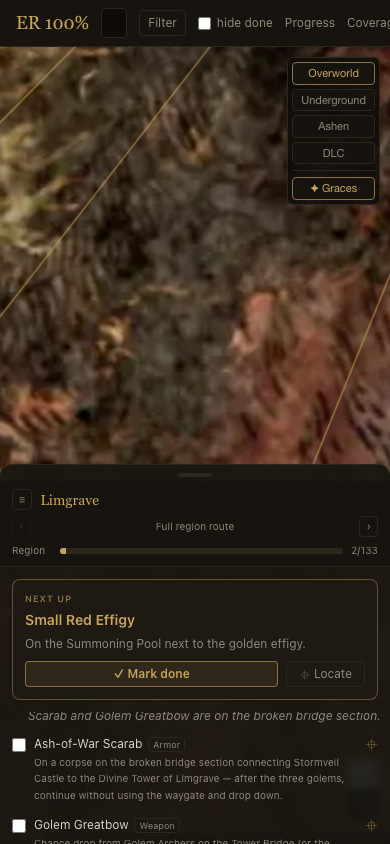
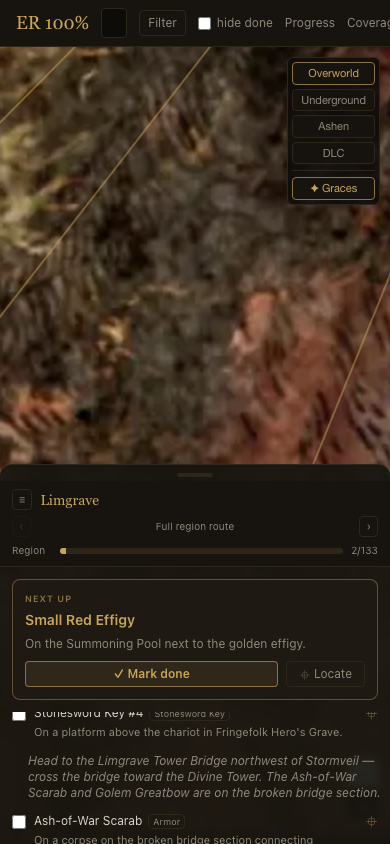
fix: auto-pan to next objective, consistent pin glyphs, panel readability
- MapView: fly to next-up pin (zoom 5, duration 0.6s) on region/leg mount;
  once-guard keyed on activeLegId prevents re-fly when checking items in the
  same leg. Layer switch runs before flyTo if next-up is on a different layer.
  Exposes map center via data-map-center attribute on moveend for acceptance tests.
- markers.ts: replace all color-emoji glyphs (shield, fire, ghost, bow, armor,
  swirl, key, seedling, droplet, brain, bubble, wrench, bell, book, map, tool,
  tree, sparkle) with monochrome text/symbol equivalents that render inside the
  colored ring without OS emoji substitution. CSS forces font-variant-emoji:text
  plus symbol font stack on .er-pin.
- RoutePanel: secondary note/missable text 10px to 11px with leading-relaxed
  on both paragraph types for consistent readability across all step rows.
- verify-map.mjs: adds acceptance check 9 (25/25 green) — navigates to
  weeping-01, waits for flyTo to settle, asserts map center within 15 CRS units
  of next-up pin coords (-205.789, 116.574); actual delta-lat=0.00, delta-lng=0.00.

Changed region(s): [[0.0308, 0.8318, 0.9538, 1.0], [0.0308, 0.955, 0.0615, 0.9858]]

diff --git a/src/components/MapView.tsx b/src/components/MapView.tsx
@@ -88,6 +88,10 @@ export default function MapView({ initialLayer, activeLegId, nextUpId }: MapView
   })
   routeStateRef.current = { activeLegId: activeLegId ?? null, nextUpId: nextUpId ?? null }
 
+  // Auto-pan guard: resets when activeLegId changes so we fly once per
+  // region/leg mount but not on every item check within the same leg.
+  const autoPanFiredRef = useRef<string | null>(null)
+
   // ── Imperative re-draw helpers (use refs only) ───────────────────────────
 
   function redrawOverlays() {
@@ -231,6 +235,15 @@ export default function MapView({ initialLayer, activeLegId, nextUpId }: MapView
       })
     })
 
+    // Expose map center via a DOM data attribute for acceptance tests
+    // (avoids leaking the Leaflet instance into window; readable with page.evaluate).
+    const updateCenterAttr = () => {
+      const c = map.getCenter()
+      containerRef.current?.setAttribute('data-map-center', `${c.lat},${c.lng}`)
+    }
+    map.on('moveend', updateCenterAttr)
+    updateCenterAttr()
+
     // Keep tiles crisp when the layout settles after mount.
     const invalidate = () => map.invalidateSize()
     const t = setTimeout(invalidate, 100)
@@ -239,6 +252,7 @@ export default function MapView({ initialLayer, activeLegId, nextUpId }: MapView
     return () => {
       clearTimeout(t)
       window.removeEventListener('resize', invalidate)
+      map.off('moveend', updateCenterAttr)
       unsubscribe()
       map.remove()
       mapRef.current = null
@@ -257,6 +271,25 @@ export default function MapView({ initialLayer, activeLegId, nextUpId }: MapView
   // Route props changed (leg navigation / next-up advanced): redraw overlays.
   useEffect(() => {
     if (mapRef.current) redrawOverlays()
+    // eslint-disable-next-line react-hooks/exhaustive-deps
+  }, [activeLegId, nextUpId])
+
+  // Auto-pan to next-up pin on region/leg mount.
+  // The guard key encodes the active leg so changing legs always triggers a
+  // fresh pan, while checking items within the same leg does NOT re-fly
+  // (handleCheck→focus() already covers that advance).
+  useEffect(() => {
+    const legKey = activeLegId ?? '__region__'
+    if (autoPanFiredRef.current === legKey) return // already panned for this leg
+    if (!mapRef.current) return
+    if (!nextUpId) return
+    const item = itemsById.get(nextUpId)
+    if (!item?.map) return
+    autoPanFiredRef.current = legKey
+    if (item.map.code !== layerRef.current) {
+      switchLayer(item.map.code)
+    }
+    mapRef.current.flyTo([item.map.lat, item.map.lng], 5, { duration: 0.6 })
     // eslint-disable-next-line react-hooks/exhaustive-deps
   }, [activeLegId, nextUpId])
 

diff --git a/src/lib/markers.ts b/src/lib/markers.ts
@@ -6,31 +6,31 @@ import type { Category } from './types'
 // the marker border ring. Checked markers are desaturated via CSS filter.
 
 export const CATEGORY_GLYPH: Record<Category, string> = {
-  weapon: '⚔',
-  shield: '🛡',
-  ammo: '🏹',
-  armor: '🦺',
-  talisman: '◉',
-  sorcery: '✦',
-  incantation: '🔥',
-  'ash-of-war': '🌀',
-  'spirit-ash': '👻',
-  'key-item': '🗝',
-  'golden-seed': '🌱',
-  'sacred-tear': '💧',
-  'crystal-tear': '⚗',
-  'memory-stone': '🧠',
-  'larval-tear': '🫧',
-  whetblade: '🔧',
-  'stonesword-key': '🗡',
-  'bell-bearing': '🔔',
-  cookbook: '📖',
-  'map-fragment': '🗺',
-  'great-rune': '#',
-  remembrance: '☽',
-  'scadutree-fragment': '🌳',
-  'revered-spirit-ash': '✨',
-  tool: '🛠',
+  weapon: '⚔',      // sword — existing monochrome, keep
+  shield: '⛨',      // heraldic shield (text/mono, replaces 🛡)
+  ammo: '▷',        // arrow head — monochrome triangle
+  armor: '▣',       // filled square-in-square (replaces 🦺)
+  talisman: '◉',    // already monochrome, keep
+  sorcery: '✦',     // already monochrome, keep
+  incantation: '✹', // eight-spoked asterisk (replaces 🔥)
+  'ash-of-war': '◈', // diamond with dot (replaces 🌀)
+  'spirit-ash': '◇', // open diamond (replaces 👻)
+  'key-item': '⚿',  // key-like (replaces 🗝)
+  'golden-seed': '✿', // flower — monochrome (replaces 🌱)
+  'sacred-tear': '▾', // downward triangle (replaces 💧)
+  'crystal-tear': '⚗', // already monochrome, keep
+  'memory-stone': '▪', // small square (replaces 🧠)
+  'larval-tear': '○', // open circle (replaces 🫧)
+  whetblade: '▬',   // rectangle / blade shape (replaces 🔧)
+  'stonesword-key': '†', // dagger / sword (replaces 🗡)
+  'bell-bearing': '◎', // bullseye / bell shape (replaces 🔔)
+  cookbook: '≡',    // triple bar / pages (replaces 📖)
+  'map-fragment': '⊞', // grid (replaces 🗺)
+  'great-rune': '#', // already text, keep
+  remembrance: '☽',  // already monochrome, keep
+  'scadutree-fragment': '✤', // four-petalled (replaces 🌳)
+  'revered-spirit-ash': '✦', // monochrome (replaces ✨)
+  tool: '⚙',        // gear — monochrome (replaces 🛠)
 }
 
 export const CATEGORY_COLOR: Record<Category, string> = {

diff --git a/src/components/RoutePanel.tsx b/src/components/RoutePanel.tsx
@@ -90,12 +90,12 @@ function PanelStepRow({
         )}
         {item?.dlc && <span className="ml-1 text-[9px] text-gold-dim">DLC</span>}
         {step.type === 'item' && !checked && (step.note ?? item?.acquisition) && (
-          <p className="mt-0.5 text-[10px] leading-relaxed text-ink-dim">
+          <p className="mt-0.5 text-[11px] leading-relaxed text-ink-dim">
             {step.note ?? item?.acquisition}
           </p>
         )}
         {missable && !checked && (
-          <p className="mt-0.5 text-[10px] font-semibold text-missable">
+          <p className="mt-0.5 text-[11px] font-semibold leading-relaxed text-missable">
             ⚠ MISSABLE — {missable.lockedBy}
           </p>
         )}

diff --git a/src/index.css b/src/index.css
@@ -33,8 +33,12 @@ body {
   display: flex;
   align-items: center;
   justify-content: center;
+  /* force text/monochrome rendering — prevent OS emoji substitution */
   font-size: 13px;
+  font-family: "Segoe UI Symbol", "Noto Sans Symbols", "Apple Symbols", sans-serif;
+  font-variant-emoji: text;
   line-height: 1;
+  color: var(--pin-color, #c8a55a);
   cursor: pointer;
   transition: transform 0.15s ease, box-shadow 0.15s ease;
   box-shadow: 0 1px 4px rgba(0, 0, 0, 0.7);
